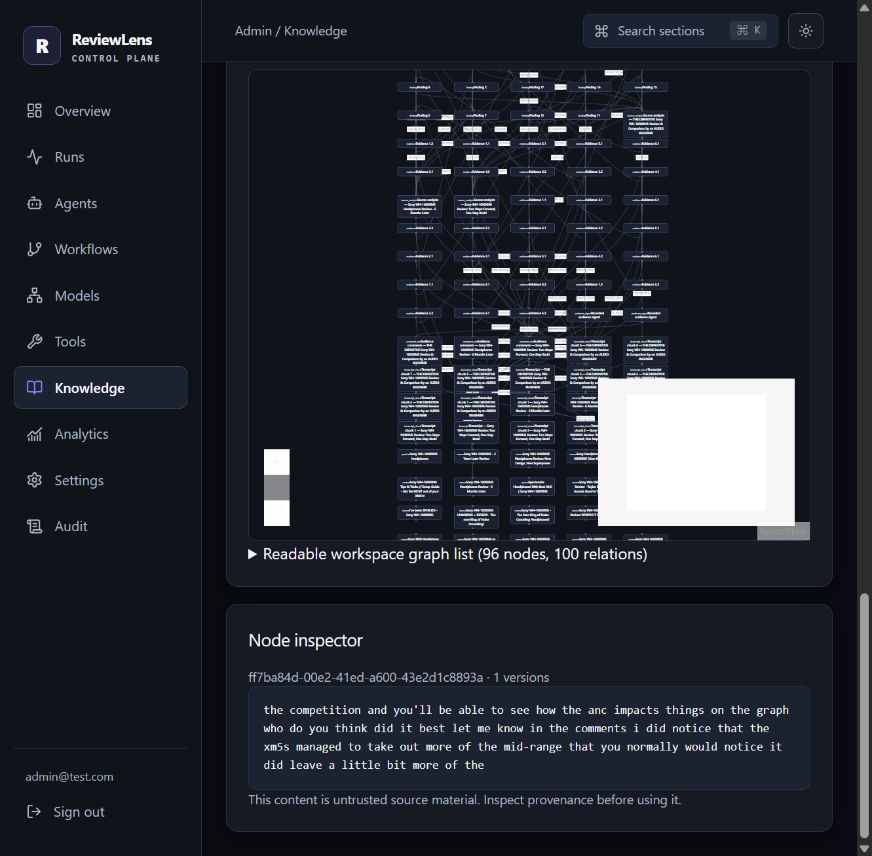
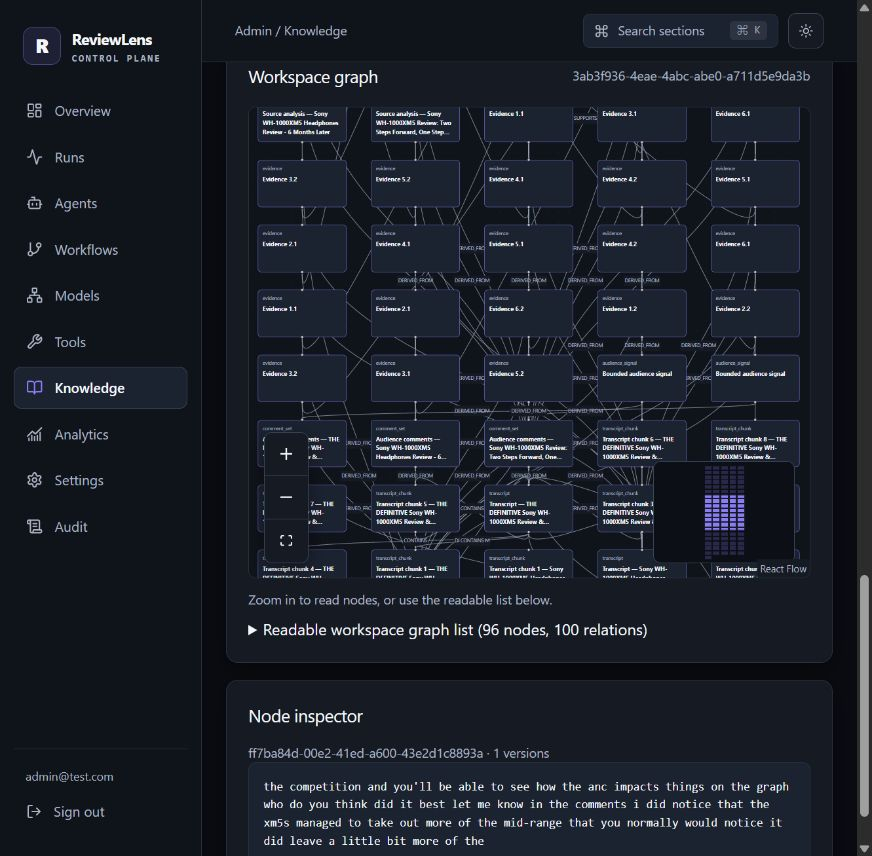
Fix admin graph theming and refresh knowledge screenshots

diff --git a/frontend/src/components/admin-graph.tsx b/frontend/src/components/admin-graph.tsx
@@ -10,13 +10,19 @@ type GraphLink = { source: string; target: string; label: string };
 
 export function AdminGraph({ items, links, title, onSelect }: { items: GraphItem[]; links: GraphLink[]; title: string; onSelect?: (id: string) => void }) {
   const { resolvedTheme } = useTheme();
-  const isLight = resolvedTheme === "light";
   const graph = useMemo(() => {
-    const nodes: Node[] = items.slice(0, 100).map((item, index) => ({ id: item.id,
-      position: { x: (index % 5) * 230, y: Math.floor(index / 5) * 115 },
-      data: { label: <div className="admin-graph-node"><small>{item.kind}</small><strong>{item.label}</strong></div> },
-      style: { background: "transparent", border: 0, padding: 0 },
-    }));
+    const nodes: Node[] = items.slice(0, 100).map((item, index) => {
+      const label = <><small>{item.kind}</small><strong>{item.label}</strong></>;
+      return { id: item.id,
+        position: { x: (index % 5) * 230, y: Math.floor(index / 5) * 132 },
+        width: 180,
+        height: 96,
+        data: { label: onSelect
+          ? <button type="button" className="admin-graph-node nodrag" aria-label={`Inspect ${item.kind}: ${item.label}`} title={item.label} onClick={() => onSelect(item.id)}>{label}</button>
+          : <div className="admin-graph-node" title={item.label}>{label}</div> },
+        style: { background: "transparent", border: 0, padding: 0 },
+      };
+    });
     const ids = new Set(nodes.map(node => node.id));
     const edges: Edge[] = links.filter(item => ids.has(item.source) && ids.has(item.target)).slice(0, 200)
       .map((item, index) => ({
@@ -24,13 +30,42 @@ export function AdminGraph({ items, links, title, onSelect }: { items: GraphItem
         source: item.source,
         target: item.target,
         label: item.label,
-        style: { stroke: isLight ? "#94A3B8" : "#64748b" },
-        labelStyle: { fill: isLight ? "#475569" : "#aab4c3" },
+        style: { stroke: "var(--admin-subtle)" },
+        labelStyle: { fill: "var(--admin-muted)" },
       }));
     return { nodes, edges };
-  }, [items, links, isLight]);
+  }, [items, links, onSelect]);
 
-  return <div><div className="admin-graph" role="region" aria-label={title + " canvas"}><ReactFlow nodes={graph.nodes} edges={graph.edges} fitView nodesDraggable={false} nodesConnectable={false} nodesFocusable={false} edgesFocusable={false} elementsSelectable={false} zoomOnDoubleClick={false} minZoom={0.25} maxZoom={1.5}><Background color={isLight ? "#E2E8F0" : "#2a3342"} /><MiniMap pannable /><Controls showInteractive={false} /></ReactFlow></div><details className="admin-graph-alt"><summary>Readable {title} list ({items.length} nodes, {links.length} relations)</summary><ul className="admin-list">{items.map(item => <li key={item.id}><div><strong>{item.label}</strong><br /><span className="admin-muted">{item.kind} · {item.id}</span></div>{onSelect && <button className="admin-secondary" onClick={() => onSelect(item.id)}>Inspect</button>}</li>)}</ul><h3>Relations</h3><ul>{links.map((link, index) => <li key={index}>{link.source} → {link.target} ({link.label})</li>)}</ul></details></div>;
+  return <div>
+    <div className="admin-graph" role="region" aria-label={title + " canvas"}>
+      <ReactFlow
+        nodes={graph.nodes}
+        edges={graph.edges}
+        colorMode={resolvedTheme}
+        fitView
+        fitViewOptions={{ padding: 0.15, minZoom: 0.1, maxZoom: 1 }}
+        nodesDraggable={false}
+        nodesConnectable={false}
+        nodesFocusable={false}
+        edgesFocusable={false}
+        elementsSelectable={false}
+        zoomOnDoubleClick={false}
+        minZoom={0.1}
+        maxZoom={1.5}
+      >
+        <Background color="var(--admin-border)" />
+        <MiniMap pannable nodeColor="var(--admin-primary)" style={{ width: 144, height: 104 }} />
+        <Controls showInteractive={false} />
+      </ReactFlow>
+    </div>
+    <p className="admin-muted admin-graph-hint">Zoom in to read nodes, or use the readable list below.</p>
+    <details className="admin-graph-alt">
+      <summary>Readable {title} list ({items.length} nodes, {links.length} relations)</summary>
+      <ul className="admin-list">{items.map(item => <li key={item.id}><div><strong>{item.label}</strong><br /><span className="admin-muted">{item.kind} · {item.id}</span></div>{onSelect && <button className="admin-secondary" onClick={() => onSelect(item.id)}>Inspect</button>}</li>)}</ul>
+      <h3>Relations</h3>
+      <ul>{links.map((link, index) => <li key={index}>{link.source} → {link.target} ({link.label})</li>)}</ul>
+    </details>
+  </div>;
 }
 
 export function WorkflowGraph({ dag }: { dag: Record<string, unknown> }) {

diff --git a/frontend/src/app/admin/admin.css b/frontend/src/app/admin/admin.css
@@ -891,6 +891,44 @@
   background: var(--admin-s1);
   border: 1px solid var(--admin-border);
   border-radius: 8px;
+  overflow: hidden;
+}
+
+.admin-graph .react-flow {
+  --xy-background-color: var(--admin-s1);
+  --xy-edge-label-background-color: var(--admin-s2);
+  --xy-edge-label-color: var(--admin-muted);
+  --xy-controls-button-background-color: var(--admin-s2);
+  --xy-controls-button-background-color-hover: var(--admin-s3);
+  --xy-controls-button-color: var(--admin-text);
+  --xy-controls-button-color-hover: var(--admin-text);
+  --xy-controls-button-border-color: var(--admin-border-strong);
+  --xy-controls-box-shadow: var(--admin-card-shadow);
+  --xy-minimap-background-color: var(--admin-s2);
+  --xy-minimap-mask-background-color: color-mix(in srgb, var(--admin-bg) 75%, transparent);
+  --xy-minimap-mask-stroke-color: var(--admin-subtle);
+  --xy-attribution-background-color: var(--admin-s2);
+}
+
+.admin-graph .react-flow__controls,
+.admin-graph .react-flow__minimap {
+  border: 1px solid var(--admin-border-strong);
+  border-radius: 8px;
+  overflow: hidden;
+}
+
+.admin-graph .react-flow__controls-button {
+  width: 44px;
+  height: 44px;
+}
+
+.admin-graph .react-flow__controls-button:focus-visible {
+  outline: 2px solid var(--admin-primary);
+  outline-offset: -3px;
+}
+
+.admin-graph .react-flow__attribution a {
+  color: var(--admin-muted);
 }
 
 .admin-graph-node {
@@ -899,9 +937,48 @@
   border-radius: 7px;
   padding: 9px;
   color: var(--admin-text);
-  width: 180px;
+  width: 100%;
+  height: 100%;
+  display: flex;
+  flex-direction: column;
+  gap: 6px;
   font-size: 12px;
+  font-family: inherit;
+  text-align: left;
+  line-height: 18px;
   overflow-wrap: anywhere;
+  overflow: hidden;
+}
+
+.admin-graph-node small {
+  color: var(--admin-muted);
+  font-size: 10px;
+  line-height: 14px;
+}
+
+.admin-graph-node strong {
+  display: -webkit-box;
+  -webkit-box-orient: vertical;
+  -webkit-line-clamp: 3;
+  overflow: hidden;
+}
+
+.admin-graph-node:focus-visible {
+  border-color: var(--admin-teal);
+  box-shadow: 0 0 0 2px var(--admin-teal);
+  outline: none;
+}
+
+button.admin-graph-node {
+  cursor: pointer;
+}
+
+button.admin-graph-node:hover {
+  border-color: var(--admin-teal);
+}
+
+.admin-graph-hint {
+  margin: 12px 0 8px;
 }
 
 .admin-graph-alt {

diff --git a/ADMIN.md b/ADMIN.md
@@ -148,9 +148,13 @@ For rollback, create and review a draft based on the desired earlier configurati
 
 Open **Knowledge**, select a workspace, then select a graph node or use **Readable workspace graph list → Inspect**. The node inspector shows available versions and stored text. Use the associated run link to return to the execution trace.
 
-![Loaded example workspace graph and a stored evidence node in the inspector](docs/assets/admin-knowledge.jpg)
+![Loaded example workspace graph with themed controls and a populated minimap](docs/assets/admin-knowledge.jpg)
 
-*The bounded graph contains real records from this run. The inspector has loaded a cited transcript excerpt and its version count.*
+*The graph is zoomed in to show its node cards. Controls, relation labels, and the populated minimap follow the app's theme. Long titles stay within each card; hover for the full title or use the readable list.*
+
+![A selected evidence node with its fully loaded transcript excerpt and version count](docs/assets/admin-knowledge-node.jpg)
+
+*Click a node card or focus it and press **Enter** to open the inspector. This real evidence excerpt was captured after its body loaded.*
 
 ![Knowledge workspaces with their current projection status](docs/assets/admin-workspace.jpg)
 
